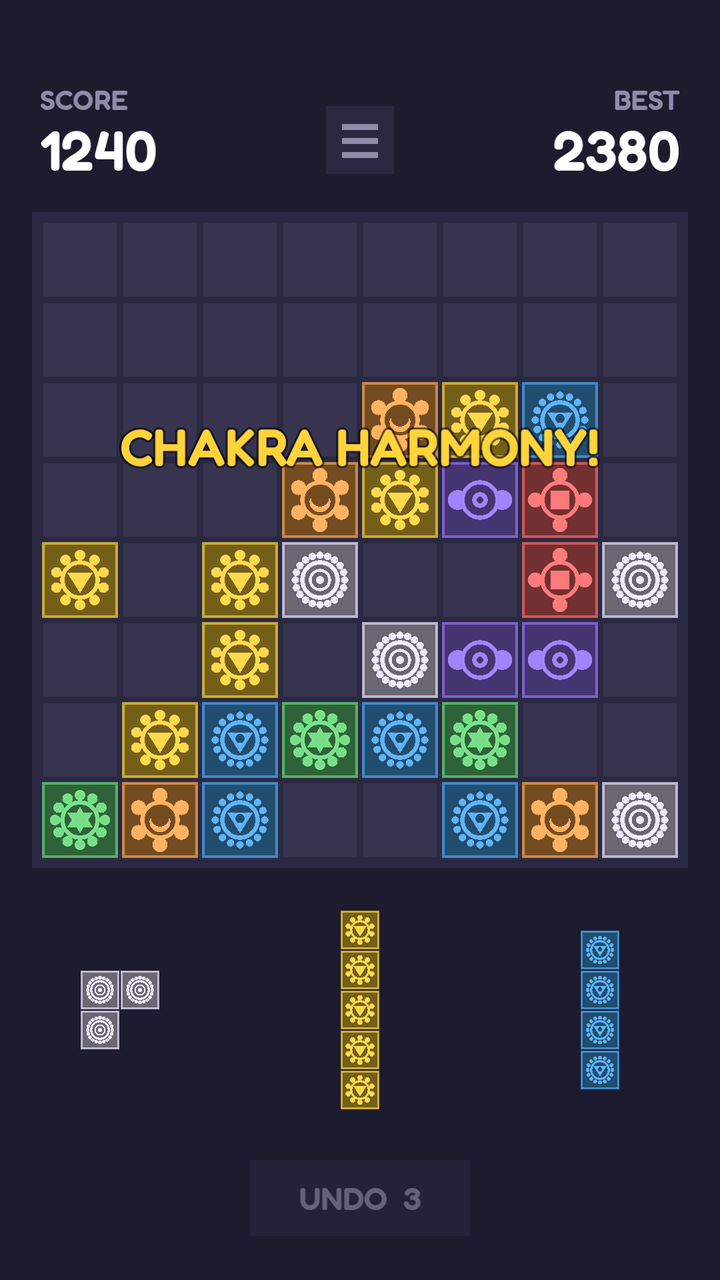
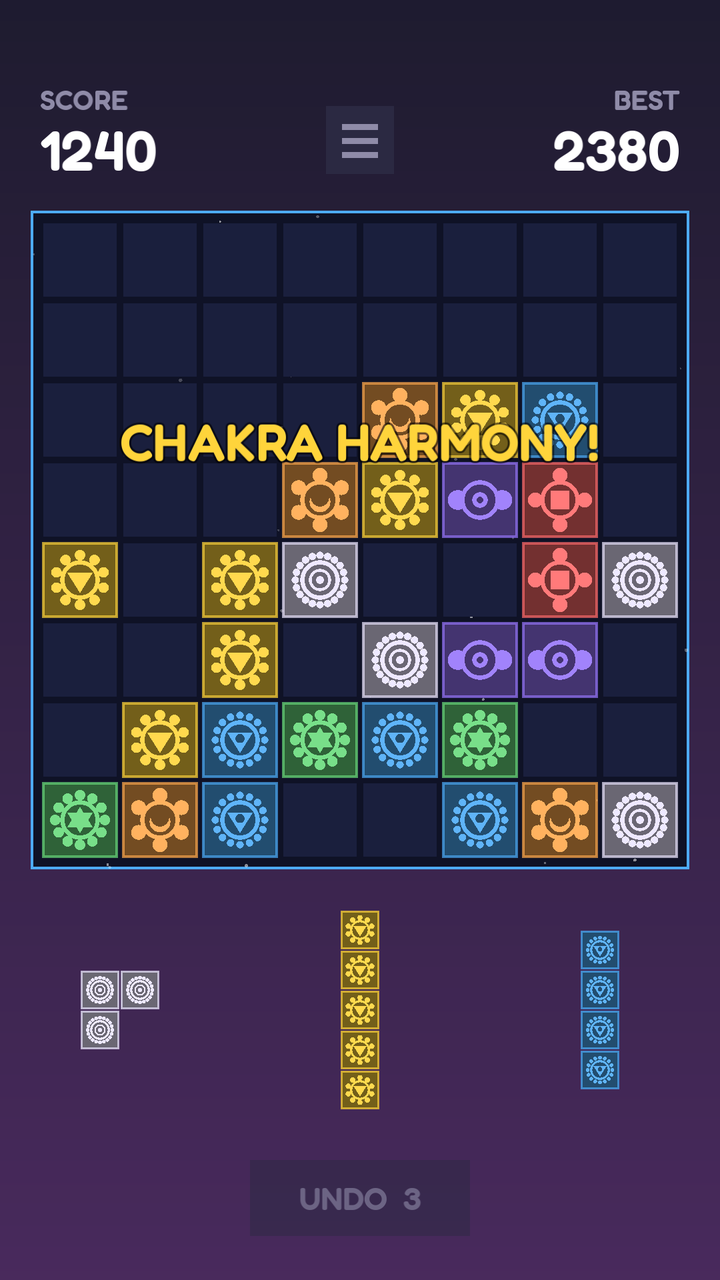
Chakra Blocks page: 1.2 screenshots and updated copy (journey adventures, market, styles)

diff --git a/chakra-blocks/index.html b/chakra-blocks/index.html
@@ -4,7 +4,7 @@
   <meta charset="utf-8">
   <meta name="viewport" content="width=device-width, initial-scale=1">
   <title>Chakra Blocks · Hasdemir Studio</title>
-  <meta name="description" content="Chakra Blocks is a relaxing block puzzle game by Hasdemir Studio.">
+  <meta name="description" content="Chakra Blocks is a relaxing block puzzle game by Hasdemir Studio: seven chakra colors, Zen mode, endless journey adventures and a style market.">
   <link rel="icon" href="../assets/chakra-blocks-icon.svg" type="image/svg+xml">
   <link rel="preconnect" href="https://fonts.googleapis.com">
   <link rel="stylesheet" href="https://fonts.googleapis.com/css2?family=Inter:wght@400;600&family=Space+Grotesk:wght@500;700&display=swap">
@@ -29,9 +29,9 @@
     <section>
       <div class="wrap">
         <div class="shots">
-          <img src="../assets/cb-menu.png" alt="Chakra Blocks main menu">
-          <img src="../assets/cb-play.png" alt="A board in the Chakra theme with chakra symbols on each block">
-          <img src="../assets/cb-themes.png" alt="Theme selection screen with six block styles">
+          <img src="../assets/cb-menu.png?v=2" alt="Chakra Blocks main menu">
+          <img src="../assets/cb-play.png?v=2" alt="A board with chakra-symbol blocks on a midnight board and dusk background">
+          <img src="../assets/cb-themes.png?v=2" alt="Market with separate block, board and background styles">
         </div>
       </div>
     </section>
@@ -42,10 +42,10 @@
         <ul class="features">
           <li><b>Seven chakra tones</b>Every color has its own soft tone when it clears.</li>
           <li><b>Zen mode</b>No score, no game over, a background that breathes with you.</li>
-          <li><b>Chakra Journey</b>35 levels across seven worlds with goals and stars.</li>
+          <li><b>Chakra Journey</b>35 levels across seven worlds with goals and stars. Finish it and unlock new adventures of 35 fresh levels each.</li>
           <li><b>Chakra Harmony and Stones</b>Clear all seven colors at once, or pop every block of one color.</li>
           <li><b>Daily quests and streaks</b>Fresh goals every day and rewards for coming back.</li>
-          <li><b>Six themes</b>Classic, Pastel, Glass, Neon, Crystal and Chakra.</li>
+          <li><b>Market</b>Mix block, board and background styles on your own, with a daily sale and set bonuses.</li>
         </ul>
       </div>
     </section>

diff --git a/index.html b/index.html
@@ -33,7 +33,7 @@
           <img src="assets/chakra-blocks-icon.svg" alt="Chakra Blocks app icon">
           <div>
             <h3>Chakra Blocks</h3>
-            <p>A relaxing block puzzle with seven chakra colors, soothing sounds, a breathing Zen mode and a 35-level journey.</p>
+            <p>A relaxing block puzzle with seven chakra colors, soothing sounds, a breathing Zen mode, endless journey adventures and a market of block, board and background styles.</p>
             <ul class="tags"><li>Puzzle</li><li>Relaxing</li><li>Android</li></ul>
             <div class="links">
               <a href="chakra-blocks/">Learn more</a>
